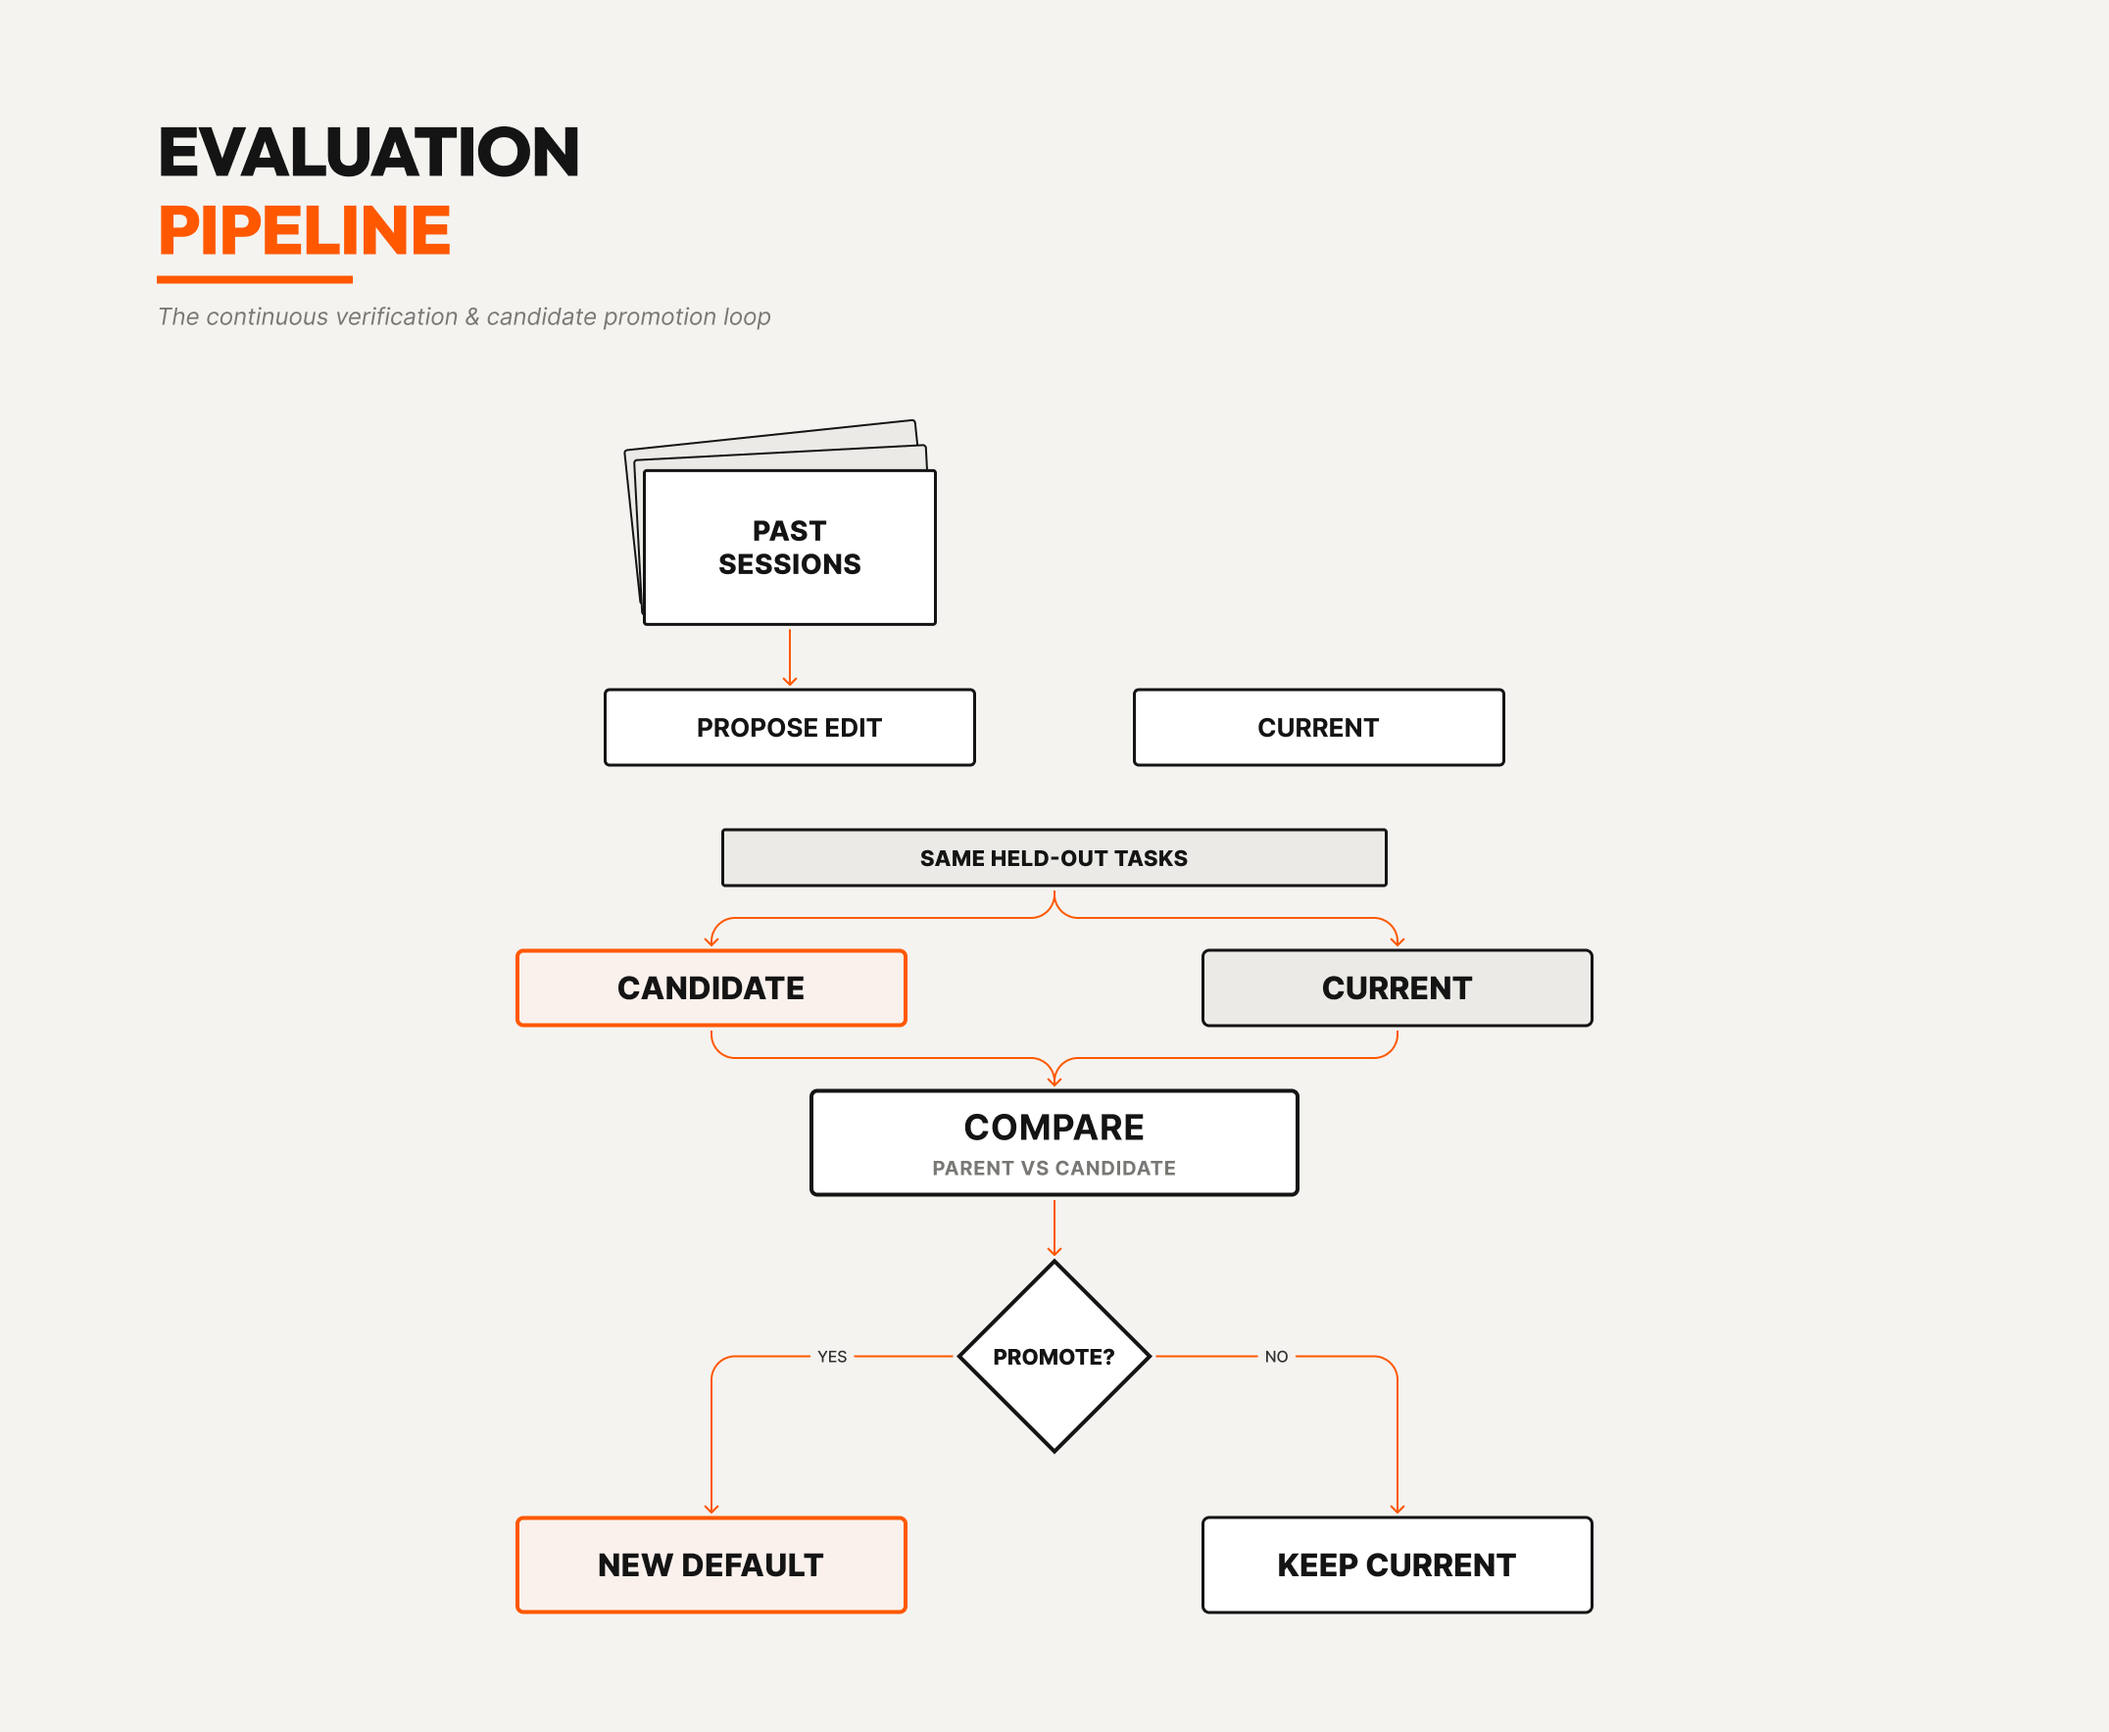
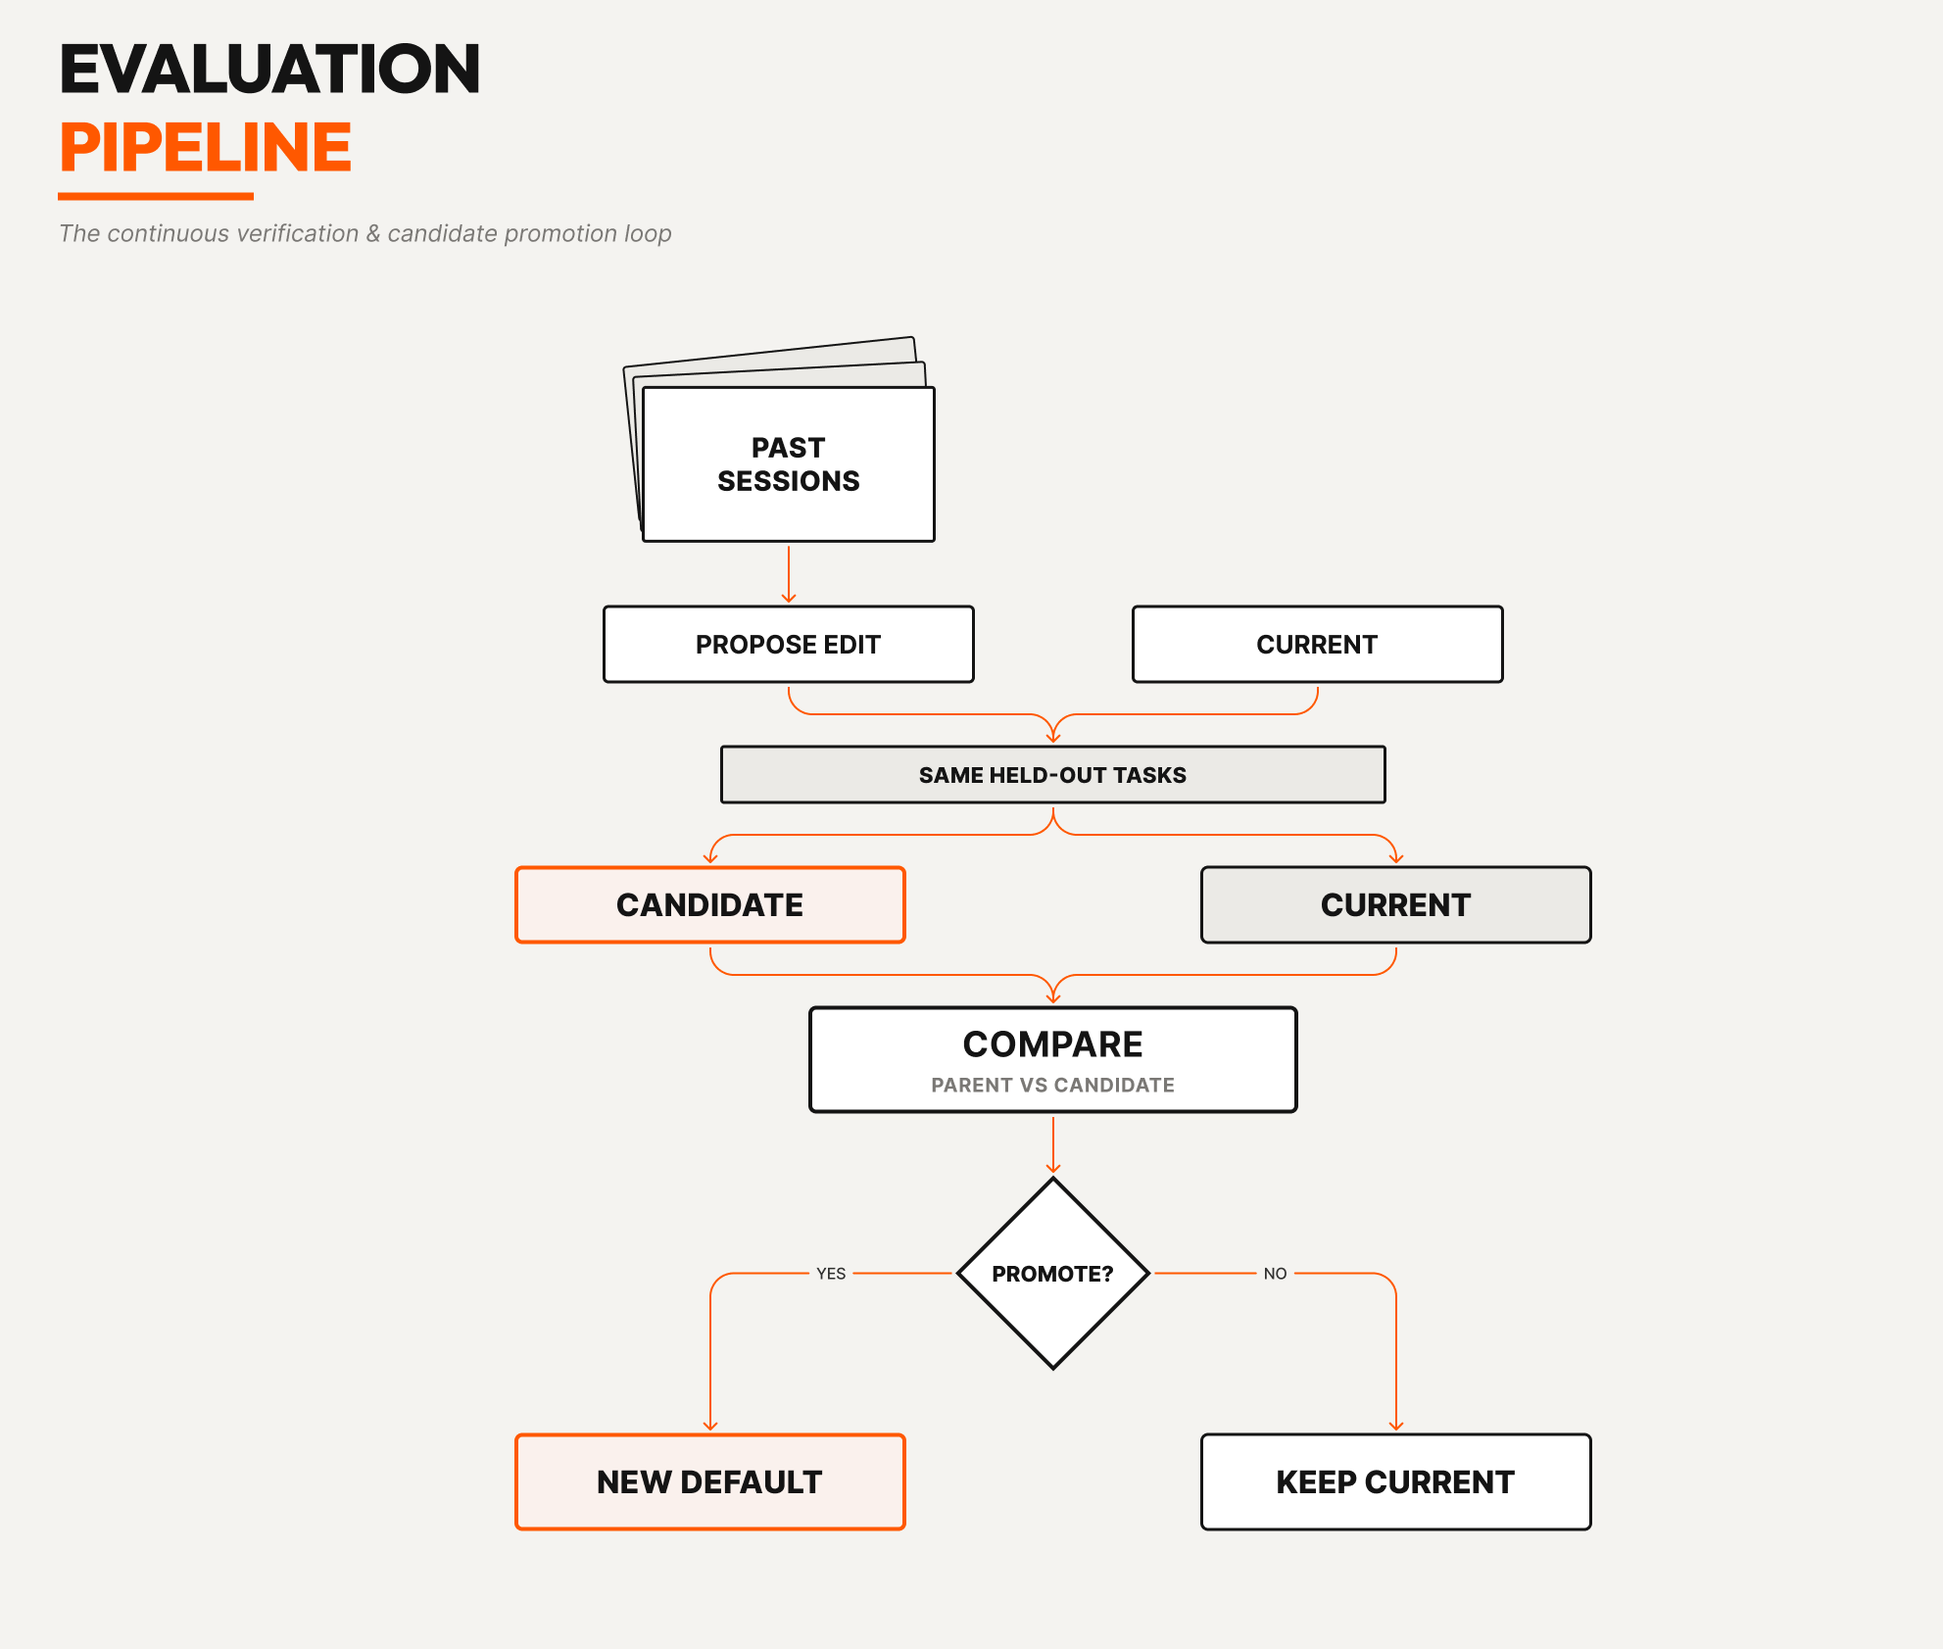
[assets] - feature: justify text alignment in content paragraphs
- This change improves the readability of content by justifying the text alignment in paragraphs and list items.
 - The updated styling enhances the overall visual presentation of the page content.

diff --git a/assets/css/main.scss b/assets/css/main.scss
@@ -163,6 +163,11 @@ h6,
   max-width: 70ch;
 }
 
+.post-content .page__content p,
+.post-content .page__content li {
+  text-align: justify;
+}
+
 .page__title {
   font-size: clamp(2.25rem, 5vw, 4rem);
   line-height: 1.08;
